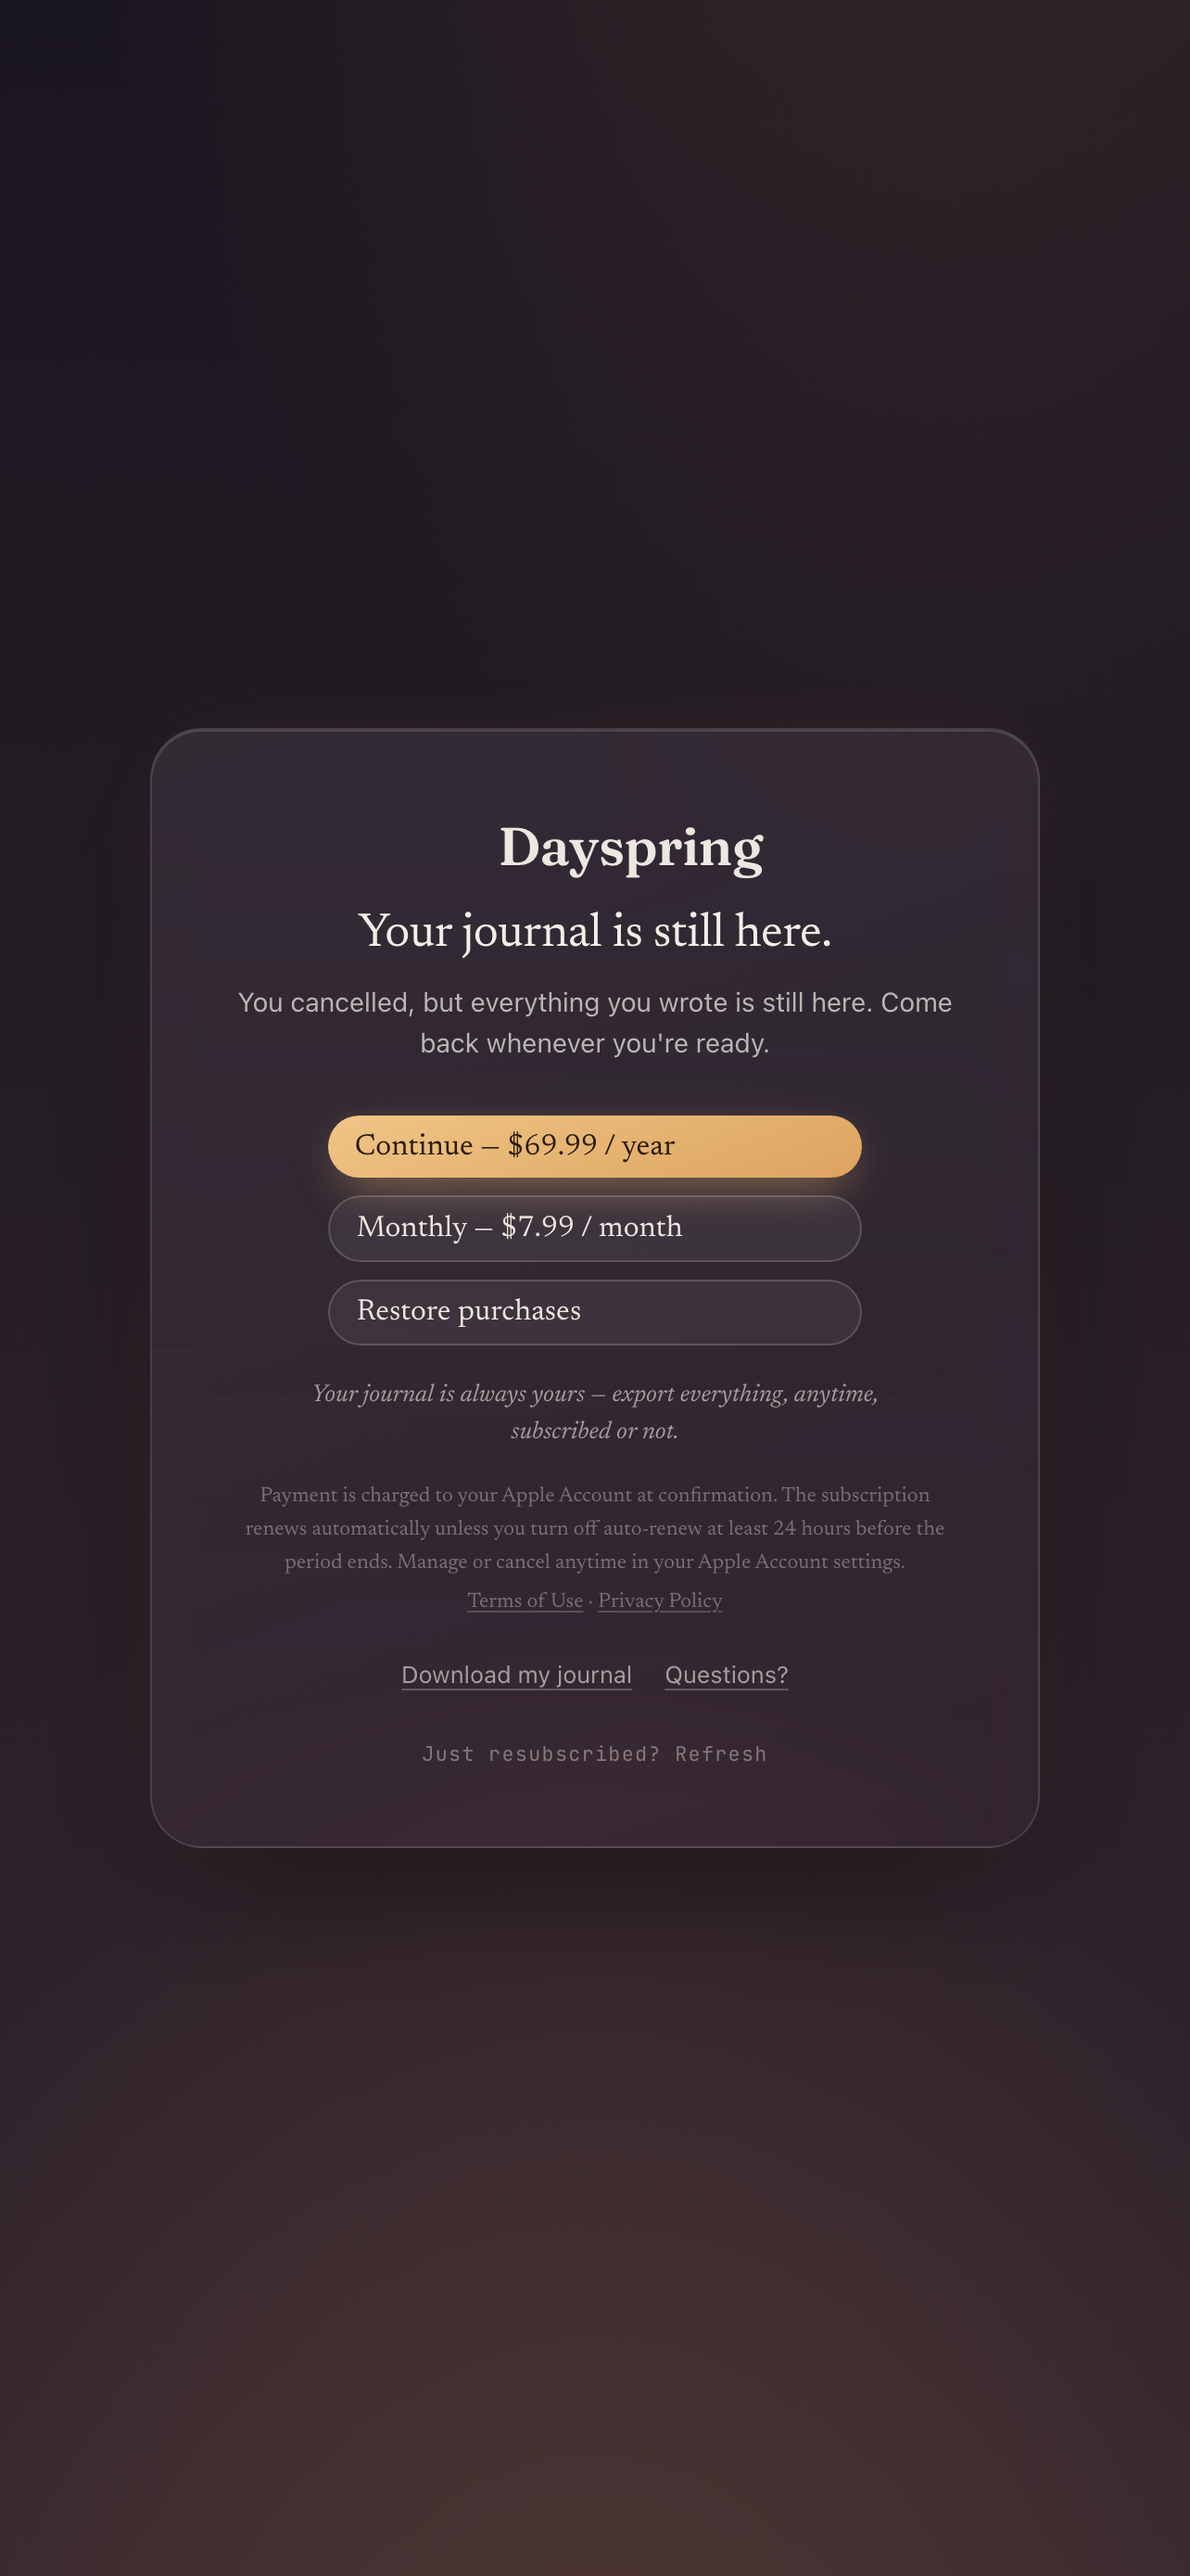
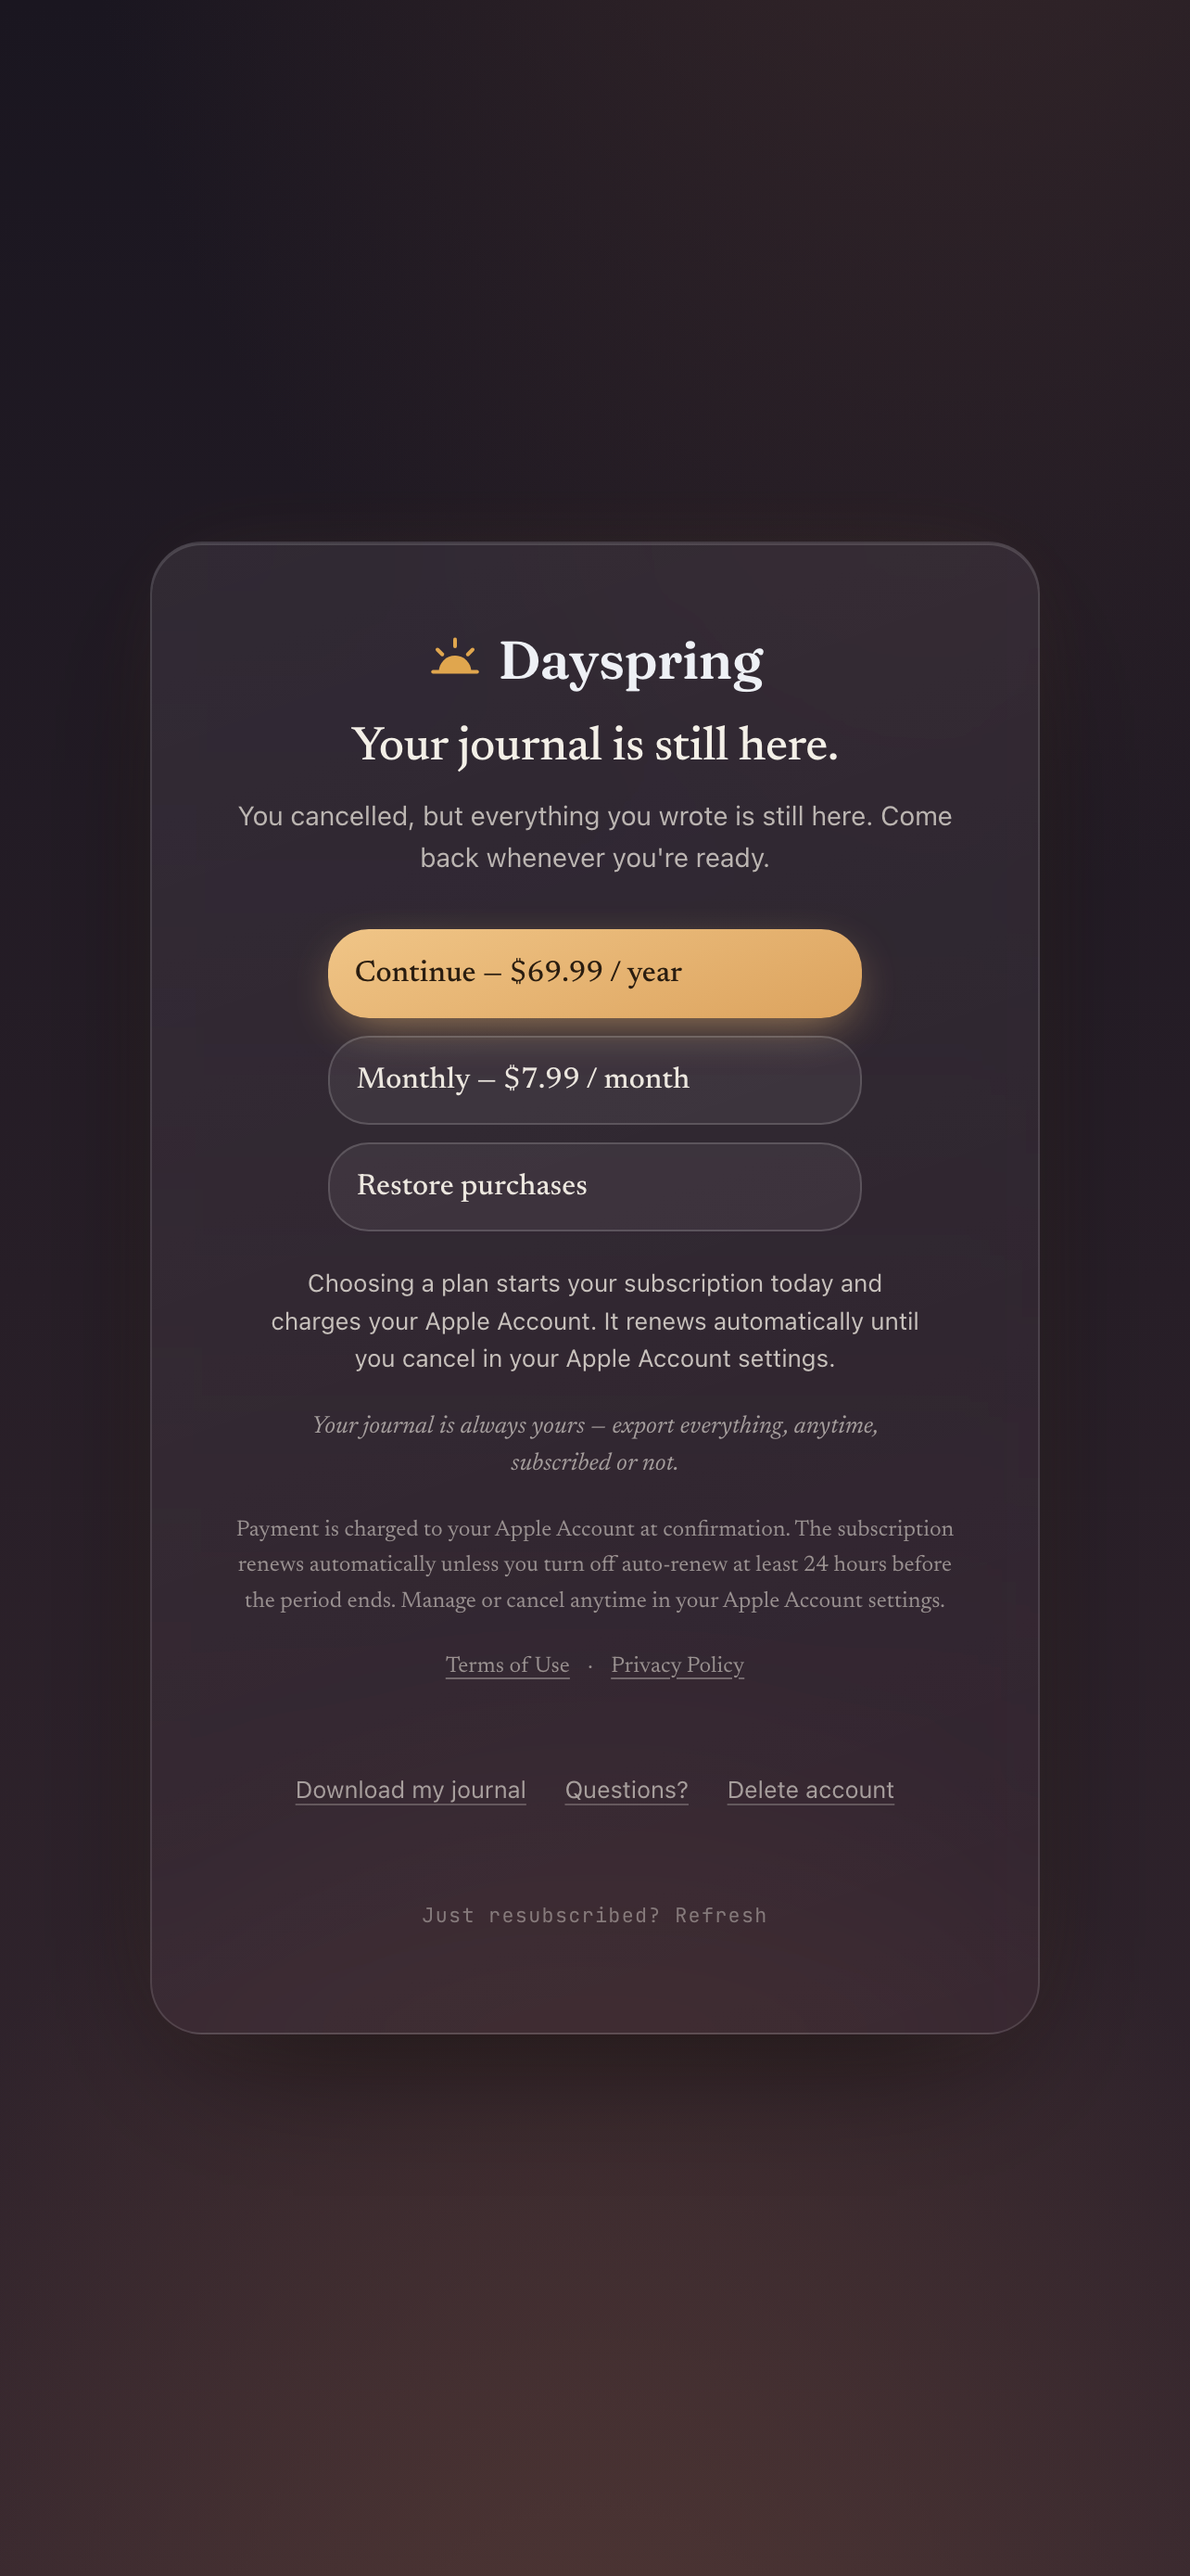
Give the reviewer a door to the purchase they were asked to find
Auditing the first pass turned up something worse than either thing Apple
cited: on the account App Review actually signs into, there was no in-app
purchase surface anywhere in the app.

PaywallScreen is gated behind !isMobileTauri, so it never renders on iOS.
LockedScreen needs an account whose access has already lapsed. The trial
banner is dismissible per session. And Settings showed Plans only for
'none' or 'cancelled' — so for the demo account in our review notes, which
is deliberately not paywalled, all four doors were shut. Our own notes told
the reviewer to "shorten trial_ends_at in Supabase", which is not something
a reviewer can do.

"We were unable to locate the in-app purchases" is the most common
subscription rejection there is, and it may well be upstream of the 3.1.2
finding: a reviewer who cannot reach the purchase judges the metadata
instead, and the metadata was claiming a free trial.

Settings now shows Plans during 'trialing' too. That is also a real product
gap independent of review — inside the complimentary 14 days the only way
to subscribe was a banner you could dismiss, after which Settings, the one
place anyone looks for billing, offered no way to pay at all.

Review notes now name the path (Settings > Subscription > Plans) instead of
describing a database edit.

The IAP review screenshot attached to both products was from 31 July and
predated every copy change in this branch — Apple compares that image to
[…]

diff --git a/src/features/settings/SettingsPanel.tsx b/src/features/settings/SettingsPanel.tsx
@@ -1021,7 +1021,20 @@ function BillingTab() {
   // Not just `plan !== 'none'`: the app-managed first-run trial has no card and
   // no customer at either store, so a portal link would 404 on both paths.
   const hasPortal = hasBillingRelationship(subscription)
-  const showPlans = plan === 'none' || plan === 'cancelled'
+  // 'trialing' belongs here for two separate reasons.
+  //
+  // Product: inside the complimentary 14 days the ONLY way to subscribe was the
+  // trial banner, which is dismissible per session. Dismiss it and Settings —
+  // the one place anyone looks for billing — offered no way to pay at all.
+  //
+  // Review: this is also the reviewer's only door. PaywallScreen never renders
+  // on iOS (App.tsx gates it behind !isMobileTauri), LockedScreen needs an
+  // account whose access has already lapsed, and the demo account in our review
+  // notes is deliberately not paywalled. With this hidden there was no in-app
+  // purchase surface an App Review tester could reach on any account they can
+  // actually sign into — and "we were unable to locate the in-app purchases" is
+  // the most common subscription rejection there is.
+  const showPlans = plan === 'none' || plan === 'cancelled' || plan === 'trialing'
   // Never offer Stripe purchase UI on iOS (App Store rules), nor while Apple may
   // still charge this account (double billing).
   const canStripePurchase = route === 'stripe'
@@ -1097,6 +1110,13 @@ function BillingTab() {
           <div className="settings-field">
             <div className="settings-field__head">
               <span className="settings-field__label">Plans</span>
+              {plan === 'trialing' && (
+                <span className="settings-field__hint">
+                  {trialEnd
+                    ? `Subscribe whenever you’re ready. Your complimentary access runs until ${trialEnd}.`
+                    : 'Subscribe whenever you’re ready.'}
+                </span>
+              )}
             </div>
             <div style={{ display: 'grid', gridTemplateColumns: '1fr 1fr', gap: '0.6rem' }}>
               {[

diff --git a/assets/appstore/listing-paste.md b/assets/appstore/listing-paste.md
@@ -137,16 +137,31 @@ cancel. Following this review we removed the words "free trial" from every
 App Store‑facing surface and from this listing, so nothing claims an
 introductory offer the products do not carry.
 
+WHERE TO FIND THE IN-APP PURCHASES
+The demo account above is inside its complimentary 14 days, so the app is not
+paywalled and you will land straight in the journal. The subscriptions are here:
+
+  Settings (person icon, top right) > Subscription > Plans
+
+Both products are listed with their StoreKit prices and a Subscribe button, with
+the auto-renew disclosure and Restore Purchases directly beneath. Tapping
+Subscribe opens the StoreKit sheet and charges immediately — there is no
+introductory offer to consume first.
+
+A banner at the top of the journal ("N days left of complimentary access") also
+leads to the same purchase. Once the 14 days elapse the app shows a full-screen
+purchase surface with the same two products.
+
 SANDBOX TESTING
 1. Sign in with email (demo credentials above), Apple, or Google.
 2. New accounts receive 14 days of app-granted access (no card, no StoreKit
    introductory offer).
-3. To reach the paywall: use an account whose trial has ended, or shorten
-   trial_ends_at in Supabase on a fresh sandbox account.
+3. Open Settings > Subscription > Plans and tap Subscribe on either product.
 4. Subscribe via StoreKit (dayspring_monthly / dayspring_annual). No
    introductory offer is attached — charging starts immediately at subscribe,
    which matches our web Stripe products.
-5. Restore Purchases is on the paywall and in Settings.
+5. Restore Purchases is under the same Plans section, and on the full-screen
+   purchase surface.
 
 NOTE ON IMPORT
 The description mentions importing from Day One or Diarly. That runs on the Mac
